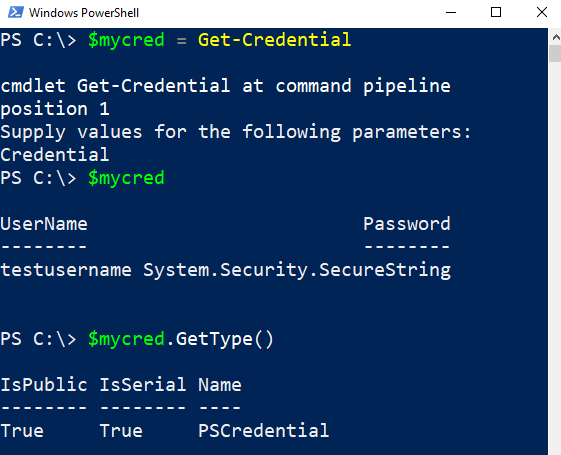
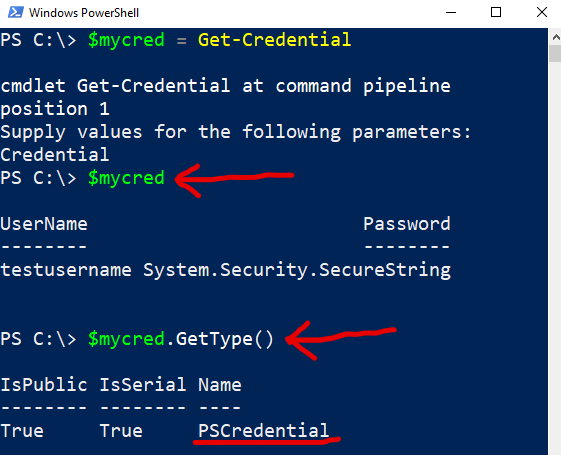
Update

Changed region(s): [[0.4848, 0.7077, 0.7273, 0.8], [0.303, 0.3385, 0.5455, 0.4308], [0.3333, 0.9538, 0.6061, 0.9846]]

diff --git a/Encoding in PowerShell/readme.md b/Encoding in PowerShell/readme.md
@@ -22,3 +22,23 @@ Here the password is encrypted and stored as `SecureString` which is a `.NET cla
 
 we can store the credential in a variable to use it further in our script as shown below.
 
+![](img/ex-1.3.png)
+
+`$mycred` contains the credential and can be used for authentication. As we can see here the type of `$mycred` is `PSCredential` which proves that this is a `PSCredential` object.
+
+
+As a developer, we may require to check the password complexity from our end. So in that case we need to convert the secure string to text readable format and then by using regex we can check the complexity. So let's take another example to see how we can decrypt the password from secure string to text.
+
+Example 2:
+
+```powershell
+$mycred = Get-Credential
+$password = $MyCred.password
+$bstr = [System.Runtime.InteropServices.Marshal]::SecureStringToBSTR($password) #converting securestring to byte string
+$decryptPassword = [System.Runtime.InteropServices.Marshal]::PtrToStringAuto($bstr) #converting byte string to string
+[Runtime.InteropServices.Marshal]::ZeroFreeBSTR($BSTR) #recommended to free the byte string memory after conversion
+```
+
+Output:
+
+![](img/ex-2.png)
